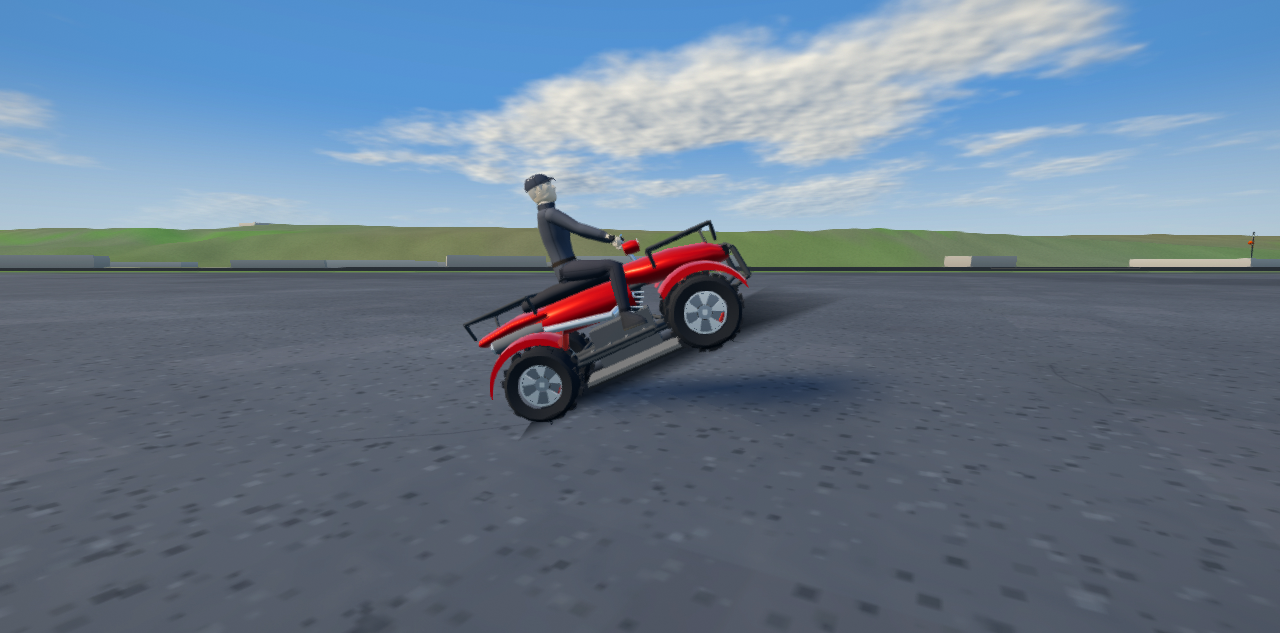
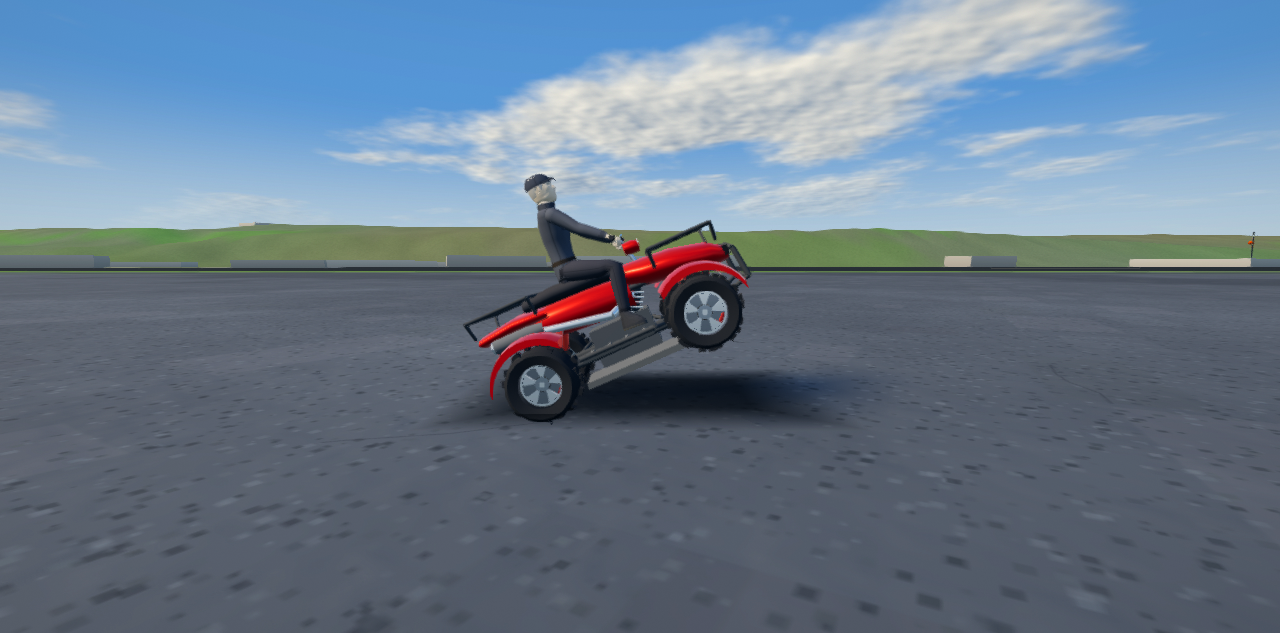
Auto v123: the contact shadow stays on the road through a wheelie
The dark patch under a vehicle was baked into its trim, which tilts with the
body, so a wheelie lifted it off the road with the nose. The player's vehicle
now draws it as its own mesh that follows the road's slope but not the
wheelie, and hides it while the wheels are off the ground. Traffic keeps it
baked (no draw); +1 draw for the player's vehicle.

Claude-Session: https://claude.ai/code/session_01F7aBrtjwRSbuA65bCUVSrc

Changed region(s): [[0.3438, 0.5403, 0.6562, 0.6904], [0.5625, 0.4502, 0.625, 0.5403]]

diff --git a/apps/auto/src/vehicles.js b/apps/auto/src/vehicles.js
@@ -5558,16 +5558,25 @@ function buildType(spec) {
   const build = HAND_BUILT[spec.hand];
   if (!build) throw new Error(`vehicle type has no builder: hand '${spec.hand}'`);
   const wheels = build(spec, paint, trim, matte);
-  // Not under a hull: a dark blob on the water reads as a hole in it.
-  if (!spec.plane && !spec.boat) contactShadow(trim, spec);
-
   const clone = (base) => {
     const b = new Builder(false);
     b.pos = base.pos.slice(); b.nor = base.nor.slice();
     b.col = base.col.slice(); b.idx = base.idx.slice();
     return b;
   };
+  // Not under a hull: a dark blob on the water reads as a hole in it.
+  // Baked into the traffic trim (no draw), but the PLAYER's detailed car has
+  // it as its own mesh on the ground: in the trim it tilted with the body, so
+  // a wheelie lifted the patch off the road with the nose, and a jump carried
+  // it up into the air under the car.
+  const shadow = new Builder(false);
+  if (!spec.plane && !spec.boat) contactShadow(shadow, spec);
   const trimW = clone(trim), matteW = clone(matte);
+  {
+    const base = trimW.pos.length / 3;
+    trimW.pos.push(...shadow.pos); trimW.nor.push(...shadow.nor); trimW.col.push(...shadow.col);
+    for (const i of shadow.idx) trimW.idx.push(i + base);
+  }
   const spins = matte.spins.map(({ b, at, axis }) => {
     const base = matteW.pos.length / 3;
     for (let i = 0; i < b.pos.length; i += 3) matteW.pos.push(b.pos[i] + at[0], b.pos[i + 1] + at[1], b.pos[i + 2] + at[2]);
@@ -5617,6 +5626,7 @@ function buildType(spec) {
     trimGeo: tagGlass(trim.build()),
     matteGeo: crewed(matte).build(),
     trimGeoW: tagGlass(trimW.build()),
+    shadowGeo: shadow.idx.length ? tagGlass(shadow.build()) : null,
     matteGeoW: matte.crew.empty ? matteGeoWE : crewed(matteW).build(),
     matteGeoWE,
     wheelGeos,
@@ -5633,7 +5643,7 @@ function buildType(spec) {
 // launch of the same build. Geometry only: materials, specs and wheels' meshes
 // are made as usual. `matteGeoW` is the same object as `matteGeoWE` for a type
 // with no crew, and stays so.
-const GEO_KEYS = ['paintGeo', 'trimGeo', 'matteGeo', 'trimGeoW', 'matteGeoW', 'matteGeoWE'];
+const GEO_KEYS = ['paintGeo', 'trimGeo', 'matteGeo', 'trimGeoW', 'matteGeoW', 'matteGeoWE', 'shadowGeo'];
 const packGeo = (g) => ({ a: Object.entries(g.attributes).map(([k, at]) => [k, at.array, at.itemSize]), i: g.index.array });
 function unpackGeo(p) {
   const g = new THREE.BufferGeometry();
@@ -5650,7 +5660,7 @@ export function vehicleSnapshot() {
     const r = { wheels: t.wheels, wheelR: t.wheelR, mwShared: t.matteGeoW === t.matteGeoWE,
       wheelGeos: t.wheelGeos.map((w) => ({ trim: packGeo(w.trim), matte: packGeo(w.matte) })),
       spins: t.spins.map((s) => ({ geo: packGeo(s.geo), at: s.at, axis: s.axis })) };
-    for (const g of GEO_KEYS) if (!(g === 'matteGeoW' && r.mwShared)) r[g] = packGeo(t[g]);
+    for (const g of GEO_KEYS) if (t[g] && !(g === 'matteGeoW' && r.mwShared)) r[g] = packGeo(t[g]);
     types[k] = r;
   }
   const far = {};
@@ -5867,6 +5877,7 @@ export class Vehicle {
     this.rider = this.spec.moto || this.spec.atv || this.spec.jetski ? makeRider(this.spec.hand) : null;
     if (this.rider) this.tilt.add(this.rider.group);
     this.wheelMeshes = [];
+    this.shadowTilt = null;   // the player's contact shadow (setDetailed)
 
     this.x = 0; this.y = 0; this.z = 0;
     this.heading = 0;
@@ -5959,6 +5970,16 @@ export class Vehicle {
         this.tilt.add(g);
         this.wheelMeshes.push(g);
       }
+      // the contact shadow, on the ground: follows the road's slope (pitch,
+      // roll) but not a wheelie, and goes when the wheels leave the ground
+      if (this.assets.shadowGeo) {
+        this.shadowTilt = new THREE.Group();
+        const sm = new THREE.Mesh(this.assets.shadowGeo, A.trimMat);
+        sm.renderOrder = -1;   // under the car's own glass in the transparent pass
+        sm.position.y = -this.pivotY;
+        this.shadowTilt.add(sm);
+        this.group.add(this.shadowTilt);
+      }
       for (const s of this.assets.spins) {
         const m = new THREE.Mesh(s.geo, A.matteMat);
         m.castShadow = true;
@@ -5972,6 +5993,7 @@ export class Vehicle {
       this.wheelMeshes.length = 0;
       for (const m of this.spinMeshes) this.tilt.remove(m);
       this.spinMeshes.length = 0;
+      if (this.shadowTilt) { this.group.remove(this.shadowTilt); this.shadowTilt = null; }
     }
   }
 
@@ -6942,6 +6964,13 @@ export class Vehicle {
     this.group.position.set(this.x, this.y + this.yVis + wl, this.z);
     this.group.rotation.y = this.heading;
     this.tilt.rotation.x = this.pitch - this.wheelie;
+    if (this.shadowTilt) {
+      const st = this.shadowTilt;
+      st.position.y = this.tilt.position.y - wl;
+      st.rotation.x = this.pitch;
+      st.rotation.z = this.roll;
+      st.visible = this.onGround && !this.stunt;
+    }
     this.tilt.rotation.z = this.roll;
     if (this.detailedWheels) {
       for (const m of this.wheelMeshes) {

diff --git a/apps/auto/CLAUDE.md b/apps/auto/CLAUDE.md
@@ -3990,7 +3990,12 @@ On the ground, stick back with the gas on lifts the front about the rear axle
 (`v.wheelie`, to 0.42 rad on a quad, 0.55 on a bike, in proportion to the
 pull; `sync` raises the centre so the back wheel stays down); steering is
 weaker with the front wheel up, and a wheelie over 2 s is announced
-(`game.onWheelie`). The stick's other axis already reached `v.update` as
+(`game.onWheelie`). **The player's contact shadow is its own mesh** now
+(`shadowGeo`, `shadowTilt`, made in `setDetailed`): baked into the trim, it
+tilted with the body, so a wheelie lifted the dark patch off the road with the
+nose and a jump carried it into the air. It follows the road's pitch and roll,
+not the wheelie, and hides off the ground. +1 draw for the player's vehicle
+only; traffic keeps it baked into `trimGeoW`. The stick's other axis already reached `v.update` as
 `pitch` for the planes; cars ignore it. `tools/stuntjumps.mjs --type atv`
 drives the jumps on any vehicle type.
 
